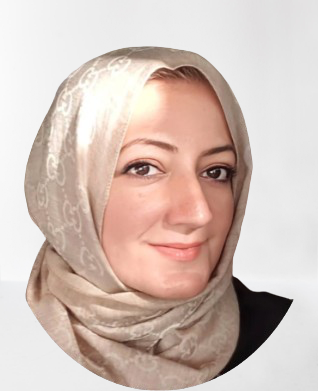
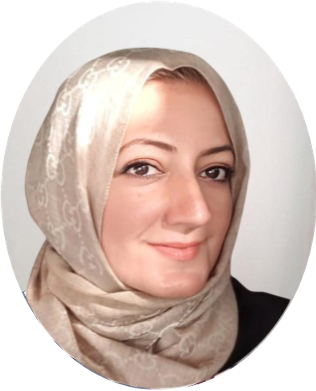
Fix dropdown menu wrapping issue on home page
- Added white-space: nowrap to prevent dropdown items from wrapping
- Increased dropdown min-width from 200px to 240px
- Updated dropdown background to match other pages (rgba transparency)

diff --git a/index.html b/index.html
@@ -64,8 +64,8 @@
         .dropdown-content {
             display: none;
             position: absolute;
-            background-color: #E9DCD7;
-            min-width: 200px;
+            background-color: rgba(233, 220, 215, 0.95);
+            min-width: 240px;
             box-shadow: 0px 8px 16px 0px rgba(0,0,0,0.2);
             z-index: 1000;
             border: 1px solid #8D5848;
@@ -82,6 +82,7 @@
             font-size: 16px;
             letter-spacing: 2px;
             border-bottom: 1px solid #f0f0f0;
+            white-space: nowrap;
         }
 
         .dropdown-content a:hover {
